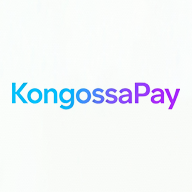
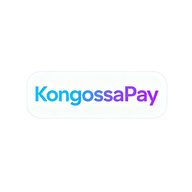
fix(agents): resolve 8 issues found during Milestone 1 QA pass
Backend:
- Fix commission update using userId instead of AgentProfile.id (404s on every attempt)
- Add 0-100 numeric validation to the admin commission-update endpoint
- Restrict approveAgent to pending-only, preventing a 500 on re-approving an
  already-active agent (duplicate UserRole unique-constraint violation)
- Stop the agent self-service profile endpoint from honouring
  commissionRate/limit fields, closing a self-escalation gap
- Return a proper 400 (not an uncaught 500) on invalid/expired OTP
- Give the agent_cashout OTP email its own subject/copy instead of reusing
  the login/registration text

Frontend:
- Fix long email addresses overflowing their card on the agent app Settings page
- Only render the admin Agent CRM "Status" action box for active/suspended
  agents, instead of showing it empty for rejected/pending agents
- Rebrand: "Kongossa Pay Agent" spacing, and logo.png used as favicon/in-app
  logo/PWA icons in place of the placeholder favicon.svg

Docs: update the CLAUDE.md note on update:agent-crm now that it's confirmed
present in production for all four roles.

All fixes verified via a dedicated QA pass (~106 scenario checks across 10
feature areas, both apps) before this commit -- see the test report.

Changed region(s): [[0.0625, 0.4062, 0.9375, 0.5938]]

diff --git a/kongossa-backend/src/agents/agents.service.ts b/kongossa-backend/src/agents/agents.service.ts
@@ -441,7 +441,12 @@ export class AgentsService {
       throw new NotFoundException('Agent not found');
     }
 
-    if (agent.status !== 'pending' && agent.status !== 'active') {
+    // Only a pending application can be approved/rejected -- 'active' is
+    // deliberately excluded even though the UI never re-shows this action
+    // for an active agent, because re-running it crashed on a duplicate
+    // UserRole unique-constraint violation (already-active agents already
+    // hold the 'agent' role from their first approval).
+    if (agent.status !== 'pending') {
       throw new BadRequestException(`Agent is already ${agent.status}`);
     }
 
@@ -620,7 +625,15 @@ export class AgentsService {
   }
 
   /**
-   * Update agent profile
+   * Update agent profile (self-service, via PATCH /agents/profile -- AgentGuard
+   * only, identity not privilege). Deliberately does NOT honour
+   * commissionRate/maxCashOnHand/dailyTransactionLimit/monthlyTransactionLimit
+   * from the dto even though UpdateAgentDto still declares them: those are
+   * admin-controlled business parameters (commission has its own admin-only
+   * updateCommissionRate above), and this route has no permission check --
+   * only AgentGuard's active+verified identity check -- so honouring them
+   * here would let any agent silently raise their own commission rate or
+   * transaction limits by calling this endpoint directly.
    */
   async updateAgentProfile(userId: number, dto: UpdateAgentDto) {
     const agent = await this.prisma.agentProfile.findUnique({
@@ -637,11 +650,36 @@ export class AgentsService {
         businessName: dto.businessName,
         registrationNumber: dto.registrationNumber,
         taxId: dto.taxId,
-        commissionRate: dto.commissionRate,
-        maxCashOnHand: dto.maxCashOnHand ? dto.maxCashOnHand : undefined,
-        dailyTransactionLimit: dto.dailyTransactionLimit ? dto.dailyTransactionLimit : undefined,
-        monthlyTransactionLimit: dto.monthlyTransactionLimit ? dto.monthlyTransactionLimit : undefined,
       },
+      include: {
+        user: {
+          select: {
+            id: true,
+            email: true,
+            fullName: true,
+            phoneNumber: true,
+            walletBalance: true,
+          },
+        },
+      },
+    });
+  }
+
+  /**
+   * Update an agent's commission rate (admin action, keyed by AgentProfile.id
+   * like approve/suspend/activate/getAgentById -- unlike updateAgentProfile
+   * above, which is keyed by userId for the agent's own self-service route).
+   */
+  async updateCommissionRate(agentId: number, commissionRate: number) {
+    const agent = await this.prisma.agentProfile.findUnique({ where: { id: agentId } });
+
+    if (!agent) {
+      throw new NotFoundException('Agent not found');
+    }
+
+    return this.prisma.agentProfile.update({
+      where: { id: agentId },
+      data: { commissionRate },
       include: {
         user: {
           select: {

diff --git a/kongossa-pay-ts/src/modules/agent-crm/components/AgentDetailDialog.tsx b/kongossa-pay-ts/src/modules/agent-crm/components/AgentDetailDialog.tsx
@@ -231,32 +231,34 @@ export default function AgentDetailDialog({
                 </div>
               </div>
 
-              <div className="border rounded-lg p-3 space-y-2">
-                <p className="text-sm font-medium">Status</p>
-                {agent.status === "active" ? (
-                  <>
-                    <Input
-                      placeholder="Suspension reason"
-                      value={suspendReason}
-                      onChange={(e) => setSuspendReason(e.target.value)}
-                    />
+              {(agent.status === "active" || agent.status === "suspended") && (
+                <div className="border rounded-lg p-3 space-y-2">
+                  <p className="text-sm font-medium">Status</p>
+                  {agent.status === "active" ? (
+                    <>
+                      <Input
+                        placeholder="Suspension reason"
+                        value={suspendReason}
+                        onChange={(e) => setSuspendReason(e.target.value)}
+                      />
+                      <Button
+                        variant="destructive"
+                        className="w-full"
+                        onClick={() => act(() => suspendAgent(agent.id, suspendReason), "Agent suspended")}
+                      >
+                        Suspend agent
+                      </Button>
+                    </>
+                  ) : (
                     <Button
-                      variant="destructive"
                       className="w-full"
-                      onClick={() => act(() => suspendAgent(agent.id, suspendReason), "Agent suspended")}
+                      onClick={() => act(() => activateAgent(agent.id), "Agent activated")}
                     >
-                      Suspend agent
+                      Reactivate agent
                     </Button>
-                  </>
-                ) : agent.status === "suspended" ? (
-                  <Button
-                    className="w-full"
-                    onClick={() => act(() => activateAgent(agent.id), "Agent activated")}
-                  >
-                    Reactivate agent
-                  </Button>
-                ) : null}
-              </div>
+                  )}
+                </div>
+              )}
             </Can>
 
             {(agent.cashTransactions?.length ?? 0) > 0 && (

diff --git a/kongossa-backend/src/mail/mail.service.ts b/kongossa-backend/src/mail/mail.service.ts
@@ -27,7 +27,12 @@ export class MailService {
   }
 
   async sendOtpEmail(to: string, otpCode: string, purpose: string = 'login') {
-    const subject = purpose === 'login' ? '🔐 Login Verification Code' : '📧 Welcome to Kongossa Pay';
+    const subject =
+      purpose === 'login'
+        ? '🔐 Login Verification Code'
+        : purpose === 'agent_cashout'
+          ? '💵 Confirm Your Cash-Out Code'
+          : '📧 Welcome to Kongossa Pay';
     
     // Gmail-friendly HTML (no complex CSS, inline styles only)
     const html = `
@@ -56,7 +61,13 @@ export class MailService {
                   <td style="padding: 30px 20px;">
                     <h2 style="color: #2d3748; margin: 0 0 16px 0; font-size: 22px; text-align: center;">Your Verification Code</h2>
                     <p style="color: #4a5568; line-height: 1.6; margin: 0 0 24px 0; text-align: center;">
-                      Use the code below to complete your ${purpose === 'login' ? 'login' : 'registration'}.
+                      Use the code below to complete your ${
+                        purpose === 'login'
+                          ? 'login'
+                          : purpose === 'agent_cashout'
+                            ? 'cash-out confirmation with your agent'
+                            : 'registration'
+                      }.
                     </p>
                     
                     <!-- OTP Code Box -->

diff --git a/kongossa-backend/src/otp/otp.service.ts b/kongossa-backend/src/otp/otp.service.ts
@@ -1,5 +1,5 @@
 // kongossa-backend/src/auth/otp.service.ts
-import { Injectable } from '@nestjs/common';
+import { BadRequestException, Injectable } from '@nestjs/common';
 import { PrismaService } from '../prisma/prisma.service';
 import { MailService } from '../mail/mail.service';
 import * as bcrypt from 'bcrypt';
@@ -42,12 +42,12 @@ export class OtpService {
     });
 
     if (!otp) {
-      throw new Error('OTP not found or expired');
+      throw new BadRequestException('OTP not found or expired');
     }
 
     const isValid = await bcrypt.compare(code, otp.codeHash);
     if (!isValid) {
-      throw new Error('Invalid OTP');
+      throw new BadRequestException('Invalid OTP');
     }
 
     // Mark as used

diff --git a/kongossa-backend/src/agents/agents.controller.ts b/kongossa-backend/src/agents/agents.controller.ts
@@ -25,6 +25,7 @@ import {
   RegisterAgentDto,
   ApproveAgentDto,
   UpdateAgentDto,
+  UpdateCommissionDto,
   CashTransactionDto,
   ConfirmCashOutDto,
   StartDayDto,
@@ -273,9 +274,9 @@ export class AgentsController {
   @RequirePermissions('update:agent-crm')
   async updateCommission(
     @Param('id', ParseIntPipe) agentId: number,
-    @Body('commissionRate') commissionRate: number,
+    @Body() dto: UpdateCommissionDto,
   ) {
-    const agent = await this.agentsService.updateAgentProfile(agentId, { commissionRate });
+    const agent = await this.agentsService.updateCommissionRate(agentId, dto.commissionRate);
     return {
       success: true,
       message: 'Commission rate updated successfully',

diff --git a/kongossa-agent-app/src/modules/auth/pages/LoginPage.tsx b/kongossa-agent-app/src/modules/auth/pages/LoginPage.tsx
@@ -38,8 +38,8 @@ export default function LoginPage() {
     <div className="min-h-screen bg-[#F4F6F8] flex items-center justify-center px-4">
       <div className="w-full max-w-sm">
         <div className="flex flex-col items-center mb-8">
-          <img src="/favicon.svg" alt="" className="w-14 h-14 mb-4" />
-          <h1 className="text-xl font-bold text-[#0B1226]">KongossaPay Agent</h1>
+          <img src="/logo.png" alt="" className="h-14 w-auto mb-4" />
+          <h1 className="text-xl font-bold text-[#0B1226]">Kongossa Pay Agent</h1>
           <p className="text-sm text-gray-500 mt-1">Sign in to your agent account</p>
         </div>
 

diff --git a/kongossa-agent-app/src/modules/auth/pages/OtpVerificationPage.tsx b/kongossa-agent-app/src/modules/auth/pages/OtpVerificationPage.tsx
@@ -64,7 +64,7 @@ export default function OtpVerificationPage() {
     <div className="min-h-screen bg-[#F4F6F8] flex items-center justify-center px-4">
       <div className="w-full max-w-sm">
         <div className="flex flex-col items-center mb-8">
-          <img src="/favicon.svg" alt="" className="w-14 h-14 mb-4" />
+          <img src="/logo.png" alt="" className="h-14 w-auto mb-4" />
           <h1 className="text-xl font-bold text-[#0B1226]">Verify your identity</h1>
           <p className="text-sm text-gray-500 mt-1 text-center">
             Enter the 6-digit code sent to <span className="font-medium">{email}</span>

diff --git a/kongossa-agent-app/src/modules/settings/pages/SettingsPage.tsx b/kongossa-agent-app/src/modules/settings/pages/SettingsPage.tsx
@@ -46,9 +46,11 @@ export default function SettingsPage() {
 
 function Row({ label, value }: { label: string; value?: string }) {
   return (
-    <div className="flex justify-between text-sm">
-      <span className="text-gray-500">{label}</span>
-      <span className="font-medium text-[#0B1226]">{value ?? "--"}</span>
+    <div className="flex justify-between items-start gap-3 text-sm">
+      <span className="text-gray-500 shrink-0">{label}</span>
+      <span className="font-medium text-[#0B1226] text-right break-words min-w-0">
+        {value ?? "--"}
+      </span>
     </div>
   );
 }

diff --git a/kongossa-agent-app/src/components/layout/AgentShell.tsx b/kongossa-agent-app/src/components/layout/AgentShell.tsx
@@ -13,8 +13,8 @@ export default function AgentShell() {
     <div className="min-h-screen bg-[#F4F6F8] flex flex-col">
       <header className="bg-white px-4 py-3 flex items-center justify-between shadow-sm">
         <div className="flex items-center gap-2">
-          <img src="/favicon.svg" alt="" className="w-9 h-9" />
-          <span className="font-semibold text-[#0B1226]">KongossaPay Agent</span>
+          <img src="/logo.png" alt="" className="h-8 w-auto" />
+          <span className="font-semibold text-[#0B1226]">Kongossa Pay Agent</span>
         </div>
       </header>
 

diff --git a/kongossa-agent-app/src/modules/auth/pages/RegisterPage.tsx b/kongossa-agent-app/src/modules/auth/pages/RegisterPage.tsx
@@ -115,7 +115,7 @@ export default function RegisterPage() {
     <div className="min-h-screen bg-[#F4F6F8] flex items-center justify-center px-4 py-10">
       <div className="w-full max-w-sm">
         <div className="flex flex-col items-center mb-6">
-          <img src="/favicon.svg" alt="" className="w-14 h-14 mb-4" />
+          <img src="/logo.png" alt="" className="h-14 w-auto mb-4" />
           <h1 className="text-xl font-bold text-[#0B1226]">Become an agent</h1>
           <p className="text-sm text-gray-500 mt-1">Step {step} of 2</p>
         </div>

diff --git a/kongossa-agent-app/index.html b/kongossa-agent-app/index.html
@@ -2,9 +2,9 @@
 <html lang="en">
   <head>
     <meta charset="UTF-8" />
-    <link rel="icon" type="image/svg+xml" href="/favicon.svg" />
+    <link rel="icon" type="image/png" href="/logo.png" />
     <meta name="viewport" content="width=device-width, initial-scale=1.0" />
-    <title>KongossaPay Agent</title>
+    <title>Kongossa Pay Agent</title>
   </head>
   <body>
     <div id="root"></div>

diff --git a/kongossa-backend/src/agents/dto/update-agent.dto.ts b/kongossa-backend/src/agents/dto/update-agent.dto.ts
@@ -1,4 +1,12 @@
-import { IsOptional, IsString, IsNumber, Min, Max } from 'class-validator';
+import { IsNotEmpty, IsOptional, IsString, IsNumber, Min, Max } from 'class-validator';
+
+export class UpdateCommissionDto {
+  @IsNotEmpty()
+  @IsNumber()
+  @Min(0)
+  @Max(100)
+  commissionRate: number;
+}
 
 export class UpdateAgentDto {
   @IsOptional()
